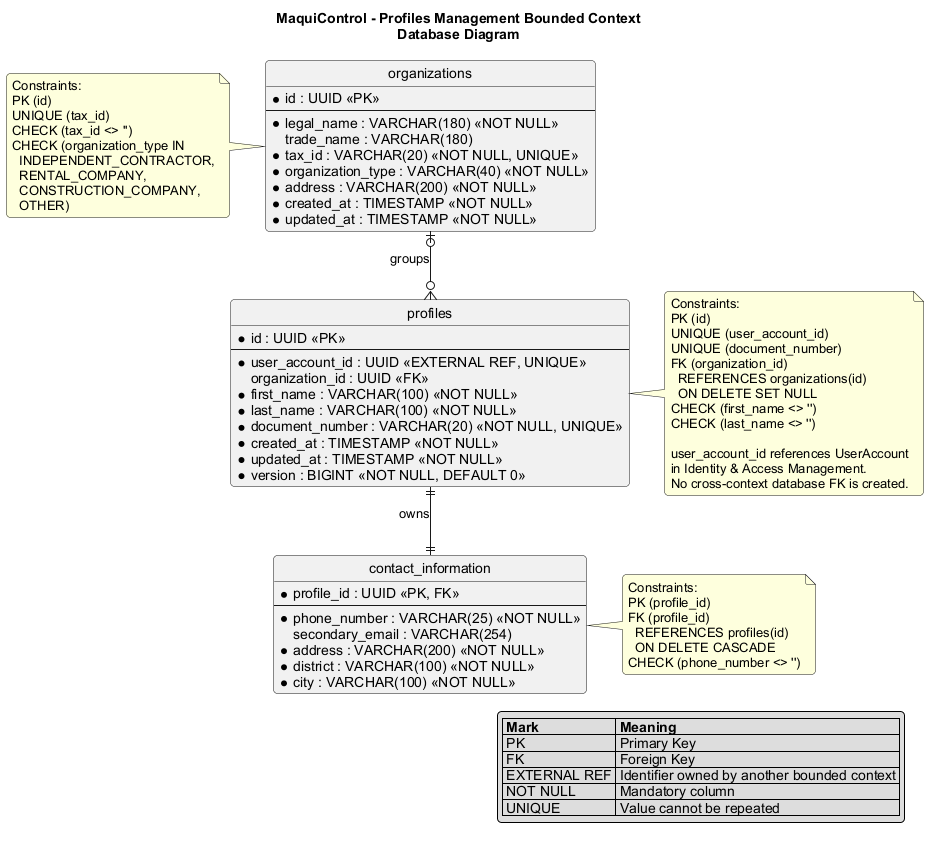
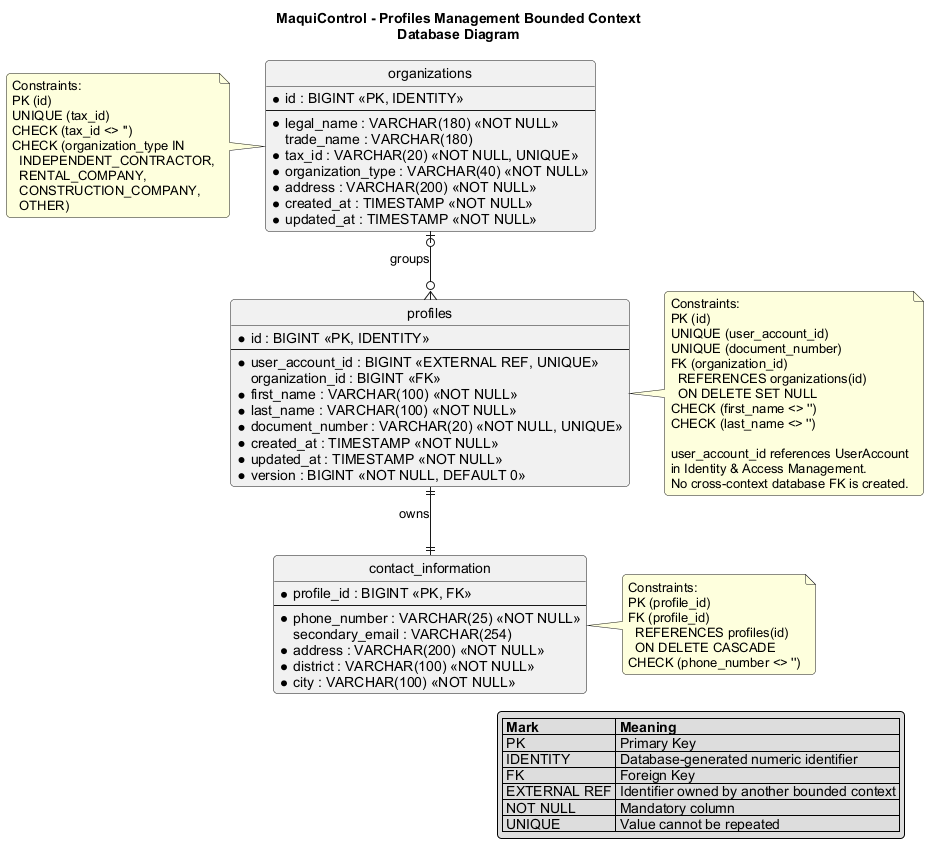
docs(design): apply Money pattern and numeric identifiers

diff --git a/README.md b/README.md
@@ -1449,25 +1449,25 @@ La Domain Layer contiene el aggregate Profile y sus reglas de negocio correspond
 
 ## 4.7 Software Object-Oriented Design
 
-El diseño orientado a objetos de MaquiControl representa las principales clases, interfaces, enumeraciones, atributos, operaciones y relaciones que conforman cada Bounded Context. Los modelos mantienen los límites definidos mediante Domain-Driven Design y utilizan identificadores para referenciar agregados pertenecientes a otros contextos, evitando el acoplamiento directo entre ellos.
+El diseño orientado a objetos de MaquiControl representa las principales clases, interfaces, enumeraciones, atributos, operaciones y relaciones que conforman cada Bounded Context. Los modelos mantienen los límites definidos mediante Domain-Driven Design y utilizan identificadores numéricos de tipo `Long` para referenciar agregados pertenecientes a otros contextos, evitando el acoplamiento directo entre ellos. Los valores monetarios se modelan mediante el Value Object `Money`, que encapsula el importe y su moneda y evita operar cantidades monetarias como valores numéricos sin contexto.
 
 ### 4.7.1 Class Diagrams
 
 #### Fleet Management Bounded Context Class Diagram
 
-El diagrama de Fleet Management representa el agregado `Machinery`, responsable del registro, actualización, clasificación, ubicación, estado y disponibilidad de la maquinaria. También incluye el objeto de valor `MachineryLocation`, las enumeraciones correspondientes y los servicios e interfaces necesarios para coordinar y persistir las operaciones del contexto.
+El diagrama de Fleet Management representa el agregado `Machinery`, responsable del registro, actualización, clasificación, ubicación, estado y disponibilidad de la maquinaria. También incluye los objetos de valor `MachineryLocation` y `Money`; este último representa la tarifa por hora mediante un importe y una moneda.
 
 ![Fleet Management Class Diagram](assets/fleet-management-class-diagram.png)
 
 #### Rental Management Bounded Context Class Diagram
 
-El diagrama de Rental Management representa el agregado `Rental` y el objeto de valor `RentalPeriod`. Este modelo administra las solicitudes de alquiler, confirmaciones, cancelaciones, fechas de reserva y estados del proceso, además de validar la existencia de reservas superpuestas para una maquinaria.
+El diagrama de Rental Management representa el agregado `Rental` y los objetos de valor `RentalPeriod` y `Money`. Este modelo administra las solicitudes de alquiler, confirmaciones, cancelaciones, fechas de reserva y estados del proceso, además de calcular el importe total sin perder la moneda asociada.
 
 ![Rental Management Class Diagram](assets/rental-management-class-diagram.png)
 
 #### Maintenance Management Bounded Context Class Diagram
 
-El diagrama de Maintenance Management representa el agregado `Maintenance` y las entidades asociadas a los reportes de averías. Permite programar, iniciar y completar mantenimientos, actualizar sus estados y conservar el historial técnico de cada maquinaria.
+El diagrama de Maintenance Management representa el agregado `Maintenance`, las entidades asociadas a los reportes de averías y el objeto de valor `Money` para registrar el costo del mantenimiento con su moneda. Permite programar, iniciar y completar mantenimientos, actualizar sus estados y conservar el historial técnico de cada maquinaria.
 
 ![Maintenance Management Class Diagram](assets/maintenance-management-class-diagram.png)
 
@@ -1494,6 +1494,8 @@ El diagrama de Profiles Management representa el agregado `Profile`, la informac
 El diseño de base de datos de MaquiControl se organiza según los límites definidos para cada Bounded Context. Cada modelo especifica las tablas, columnas, tipos de datos, claves primarias, claves foráneas, restricciones y cardinalidades necesarias para persistir la información de sus agregados y entidades.
 
 Para conservar la independencia entre Bounded Contexts, las asociaciones internas utilizan claves foráneas, mientras que las relaciones con agregados pertenecientes a otros contextos se representan mediante identificadores externos. De esta manera se evita el acoplamiento directo entre los modelos de persistencia y se mantiene una responsabilidad claramente definida sobre los datos.
+
+Las entidades utilizan claves primarias numéricas `BIGINT` generadas por la base de datos, en lugar de UUID. Los valores monetarios se persisten como pares de columnas de importe y código de moneda, manteniendo en la base de datos la semántica definida por el patrón `Money` del modelo de dominio.
 
 ### 4.8.1 Database Diagrams
 
